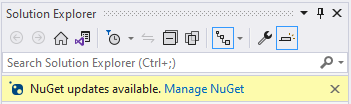
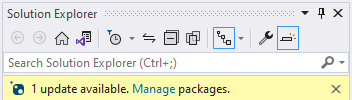
fix: #5 "https://api.nuget.org/v3/index.json" must not be hard-coded

diff --git a/src/Services/NuGetService.cs b/src/Services/NuGetService.cs
@@ -1,5 +1,4 @@
 using NuGet.Common;
-using NuGet.Protocol;
 using NuGet.Protocol.Core.Types;
 using System.Collections.Generic;
 using System.Linq;
@@ -7,60 +6,72 @@ using System.Threading;
 using System.Threading.Tasks;
 using NuGet.Packaging.Core;
 using PackageReference = NuGetMonitor.Models.PackageReference;
+using NuGet.Configuration;
+using System.IO;
+using System;
+using Community.VisualStudio.Toolkit;
+using Settings = NuGet.Configuration.Settings;
 
 namespace NuGetMonitor.Services
 {
     public static class NuGetService
     {
-        public static async Task<IEnumerable<PackageReference>> CheckPackageReferences(IReadOnlyCollection<PackageIdentity> packageIdentities)
+        public static async Task<IEnumerable<PackageReference>> CheckPackageReferences(
+            IReadOnlyCollection<PackageIdentity> packageIdentities)
         {
             using var sourceCacheContext = new SourceCacheContext();
 
             var identitiesById = packageIdentities.GroupBy(item => item.Id);
 
+            var sourceRepositories = await GetSourceRepositories().ConfigureAwait(false);
+
             var result = await Task
-                .WhenAll(identitiesById.Select(identities => CheckPackageReference(identities, sourceCacheContext)))
+                .WhenAll(identitiesById.Select(identities => CheckPackageReference(identities, sourceCacheContext, sourceRepositories)))
                 .ConfigureAwait(false);
 
             return result;
         }
 
-        private static async Task<PackageReference> CheckPackageReference(IGrouping<string, PackageIdentity> packageIdentities, SourceCacheContext sourceCacheContext)
+        private static async Task<PackageReference> CheckPackageReference(
+            IGrouping<string, PackageIdentity> packageIdentities,
+            SourceCacheContext sourceCacheContext,
+            IEnumerable<SourceRepository> sourceRepositories)
         {
-            // TODO: read source repositories from nuget.config in solution directory and check all repos
-            //var packageSourceProvider = new PackageSourceProvider(new Settings(_solutionDirectory));
-            //var sourceRepositoryProvider = new SourceRepositoryProvider(packageSourceProvider, Repository.Provider.GetCoreV3());
-            //var repositories = sourceRepositoryProvider.GetRepositories().ToArray();
-
-            var packageMetadataResource = await Repository.Factory
-                .GetCoreV3("https://api.nuget.org/v3/index.json")
-                .GetResourceAsync<PackageMetadataResource>()
-                .ConfigureAwait(false);
-
             // use the oldest reference with the smallest version
             var identity = packageIdentities.OrderBy(item => item.Version.Version).First();
 
-            var metadata = await packageMetadataResource
-                .GetMetadataAsync(identity, sourceCacheContext, NullLogger.Instance, CancellationToken.None)
-                .ConfigureAwait(false);
-
-            if (metadata == null)
+            foreach (var sourceRepository in sourceRepositories)
             {
-                return new PackageReference(identity);
+                var packageMetadataResource = await sourceRepository
+                    .GetResourceAsync<PackageMetadataResource>()
+                    .ConfigureAwait(false);
+
+                var metadata = await packageMetadataResource
+                    .GetMetadataAsync(identity, sourceCacheContext, NullLogger.Instance, CancellationToken.None)
+                    .ConfigureAwait(false);
+
+                if (metadata == null)
+                {
+                    continue;
+                }
+
+                return new PackageReference(identity)
+                {
+                    IsVulnerable = metadata.Vulnerabilities != null,
+                    IsDeprecated = await metadata.GetDeprecationMetadataAsync().ConfigureAwait(false) != null,
+                    IsOutdated = await IsOutdated(identity, sourceCacheContext, sourceRepository).ConfigureAwait(false),
+                };
             }
 
-            return new PackageReference(identity)
-            {
-                IsVulnerable = metadata.Vulnerabilities != null,
-                IsDeprecated = await metadata.GetDeprecationMetadataAsync().ConfigureAwait(false) != null,
-                IsOutdated = await IsOutdated(identity, sourceCacheContext).ConfigureAwait(false),
-            };
+            return new PackageReference(identity);
         }
 
-        private static async Task<bool> IsOutdated(PackageIdentity packageIdentity, SourceCacheContext sourceCacheContext)
+        private static async Task<bool> IsOutdated(
+            PackageIdentity packageIdentity,
+            SourceCacheContext sourceCacheContext,
+            SourceRepository sourceRepository)
         {
-            var packageResource = await Repository.Factory
-                .GetCoreV3("https://api.nuget.org/v3/index.json")
+            var packageResource = await sourceRepository
                 .GetResourceAsync<FindPackageByIdResource>()
                 .ConfigureAwait(false);
 
@@ -71,6 +82,50 @@ namespace NuGetMonitor.Services
             var latestVersion = versions.Last(version => version.IsPrerelease == packageIdentity.Version.IsPrerelease);
 
             return latestVersion > packageIdentity.Version;
+        }
+
+        // https://learn.microsoft.com/en-us/nuget/consume-packages/configuring-nuget-behavior#config-file-locations-and-uses
+        private static async Task<IEnumerable<SourceRepository>> GetSourceRepositories()
+        {
+            var sourceRepositories = new List<SourceRepository>();
+
+            var solution = await VS.Solutions.GetCurrentSolutionAsync().ConfigureAwait(false);
+            var solutionNuGetConfigPath = Path.GetDirectoryName(solution.FullPath);
+
+            sourceRepositories.AddRange(GetSourceRepositories(solutionNuGetConfigPath));
+
+            var userNuGetConfigPath = Path.Combine(
+                Environment.GetFolderPath(Environment.SpecialFolder.ApplicationData),
+                "NuGet");
+
+            sourceRepositories.AddRange(GetSourceRepositories(userNuGetConfigPath));
+
+            var computerNuGetConfigPath = Path.Combine(
+                Environment.GetFolderPath(Environment.SpecialFolder.ProgramFilesX86),
+                "NuGet", "Config");
+
+            sourceRepositories.AddRange(
+                Directory
+                    .EnumerateFiles(computerNuGetConfigPath, "*.Config")
+                    .SelectMany(path => GetSourceRepositories(computerNuGetConfigPath, Path.GetFileName(path), true)));
+
+            return sourceRepositories
+                .GroupBy(repository => repository.PackageSource.SourceUri)
+                .Select(group => group.First());
+        }
+
+        private static IEnumerable<SourceRepository> GetSourceRepositories(
+            string path, string fileName = "NuGet.Config", bool isMachineWide = false)
+        {
+            if (!File.Exists(Path.Combine(path, fileName)))
+            {
+                return Enumerable.Empty<SourceRepository>();
+            }
+
+            var packageSourceProvider = new PackageSourceProvider(new Settings(path, fileName, isMachineWide));
+            var sourceRepositoryProvider = new SourceRepositoryProvider(packageSourceProvider, Repository.Provider.GetCoreV3());
+            var repositories = sourceRepositoryProvider.GetRepositories();
+            return repositories;
         }
     }
 }

diff --git a/src/Services/InfoBarService.cs b/src/Services/InfoBarService.cs
@@ -56,7 +56,7 @@ namespace NuGetMonitor.Services
 
             if (outdatedCount > 0)
             {
-                textSpans.Add(new InfoBarTextSpan($"{outdatedCount} {(outdatedCount == 1 ? "update" : "updates")} available"));
+                textSpans.Add(new InfoBarTextSpan($"{outdatedCount} {(outdatedCount == 1 ? "update" : "updates")}"));
             }
 
             if (deprecatedCount > 0)

diff --git a/README.md b/README.md
@@ -16,11 +16,13 @@ for the installed NuGet packages for the open solution.
 ## Installing
 [Visual Studio Marketplace](https://marketplace.visualstudio.com/items?itemName=SamirBoulema.NuGetMonitor) [![Visual Studio Marketplace](https://img.shields.io/vscode-marketplace/v/SamirBoulema.NuGetMonitor.svg?style=flat)](https://marketplace.visualstudio.com/items?itemName=SamirBoulema.NuGetMonitor)
 
-[Github Releases](https://github.com/sboulema/NuGetMonitor/releases)
+[GitHub Releases](https://github.com/sboulema/NuGetMonitor/releases)
 
 [Open VSIX Gallery](https://www.vsixgallery.com/extension/NuGetMonitor.2a6fbffe-f3fd-4bf8-98cc-5ae2c833a1c7)
 
 ## Screenshots
+[![Screenshot](https://raw.githubusercontent.com/sboulema/NuGetMonitor/main/art/Screenshot2.png)](https://raw.githubusercontent.com/sboulema/NuGetMonitor/main/art/Screenshot2.png)
+
 [![Screenshot](https://raw.githubusercontent.com/sboulema/NuGetMonitor/main/art/Screenshot.png)](https://raw.githubusercontent.com/sboulema/NuGetMonitor/main/art/Screenshot.png)
 
 ## Thanks
@@ -30,7 +32,7 @@ A big thanks goes to [AnushaG2201](https://github.com/AnushaG2201)!
 
 I was playing with the idea for this extension for quite a while but never figured out how I would create this extension. 
 
-That is until I saw the [Nuget-updates-notifier](https://marketplace.visualstudio.com/items?itemName=Anusha.NugetPackageUpdateNotifier) ([Github](https://github.com/AnushaG2201/Nuget-updates-notifier)) which gave me the remaining puzzle pieces, so that I could create my own version.
+That is until I saw the [Nuget-updates-notifier](https://marketplace.visualstudio.com/items?itemName=Anusha.NugetPackageUpdateNotifier) ([GitHub](https://github.com/AnushaG2201/Nuget-updates-notifier)) which gave me the remaining puzzle pieces, so that I could create my own version.
 
 ### tom-englert
 A big thanks goes to [tom-englert](https://github.com/tom-englert)!
